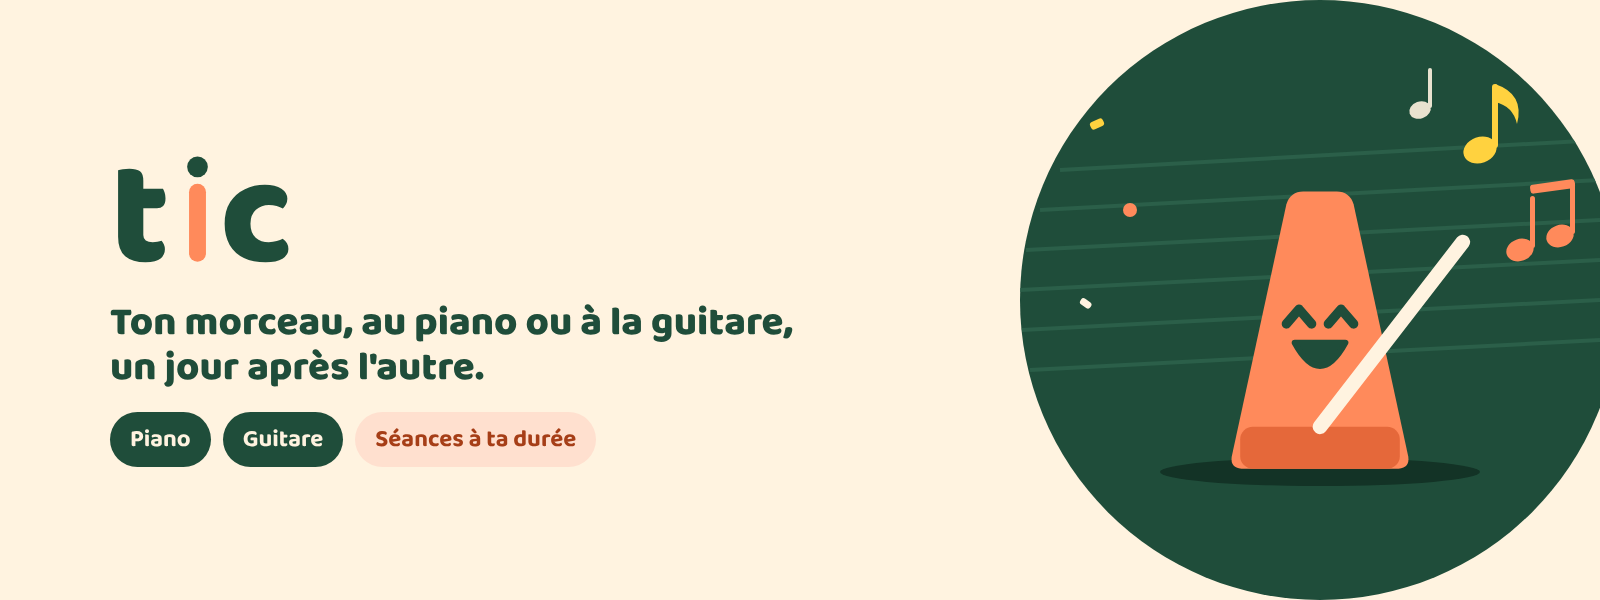
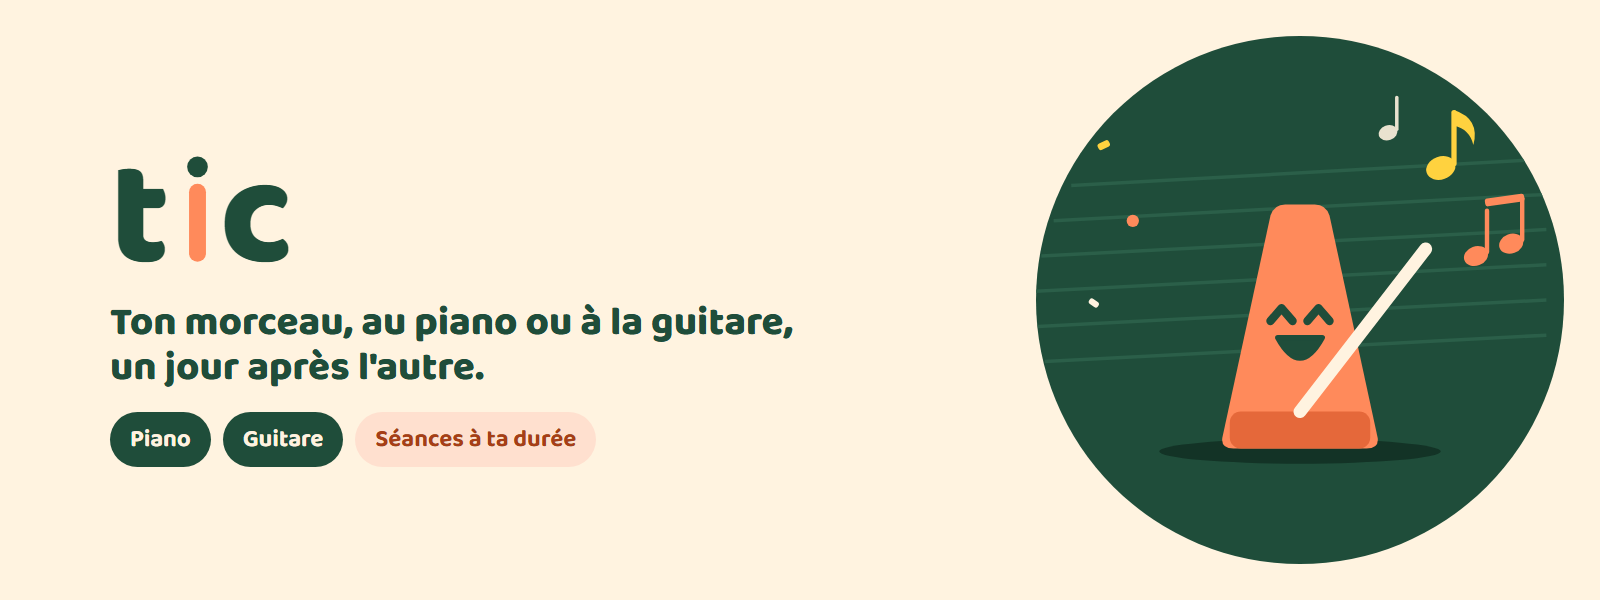
ajout des fiches de poste manquantes et des assets branding

diff --git a/identite/maquettes-v2/project/BanniereMascotte.dc.html b/identite/maquettes-v2/project/BanniereMascotte.dc.html
@@ -31,6 +31,7 @@ body{margin:0}
   <div style="width: 640px; height: 600px; flex-shrink: 0; position: relative">
     <svg width="640" height="600" viewBox="0 0 640 600" role="img" aria-label="Tic, le métronome, fait la fête, des notes de musique s'envolent de son balancier">
       <defs><clipPath id="ticDisc"><circle cx="360" cy="300" r="300"></circle></clipPath></defs>
+      <g transform="translate(340 300) scale(0.88) translate(-360 -300)">
       <circle cx="360" cy="300" r="300" fill="#1F4D3A"></circle>
       <g stroke="#2B5F49" stroke-width="4" clip-path="url(#ticDisc)">
         <line x1="100" y1="170" x2="640" y2="140"></line><line x1="80" y1="210" x2="640" y2="180"></line><line x1="66" y1="250" x2="640" y2="220"></line><line x1="60" y1="290" x2="640" y2="260"></line><line x1="62" y1="330" x2="640" y2="300"></line><line x1="70" y1="370" x2="640" y2="340"></line>
@@ -57,6 +58,7 @@ body{margin:0}
       <rect x="130" y="120" width="14" height="8" rx="3" fill="#FFD23F" transform="rotate(-25 137 124)"></rect>
       <circle cx="170" cy="210" r="7" fill="#FF8A5B"></circle>
       <rect x="120" y="300" width="12" height="7" rx="3" fill="#FFF3E0" transform="rotate(35 126 303)"></rect>
+      </g>
     </svg>
   </div>
 </div>
